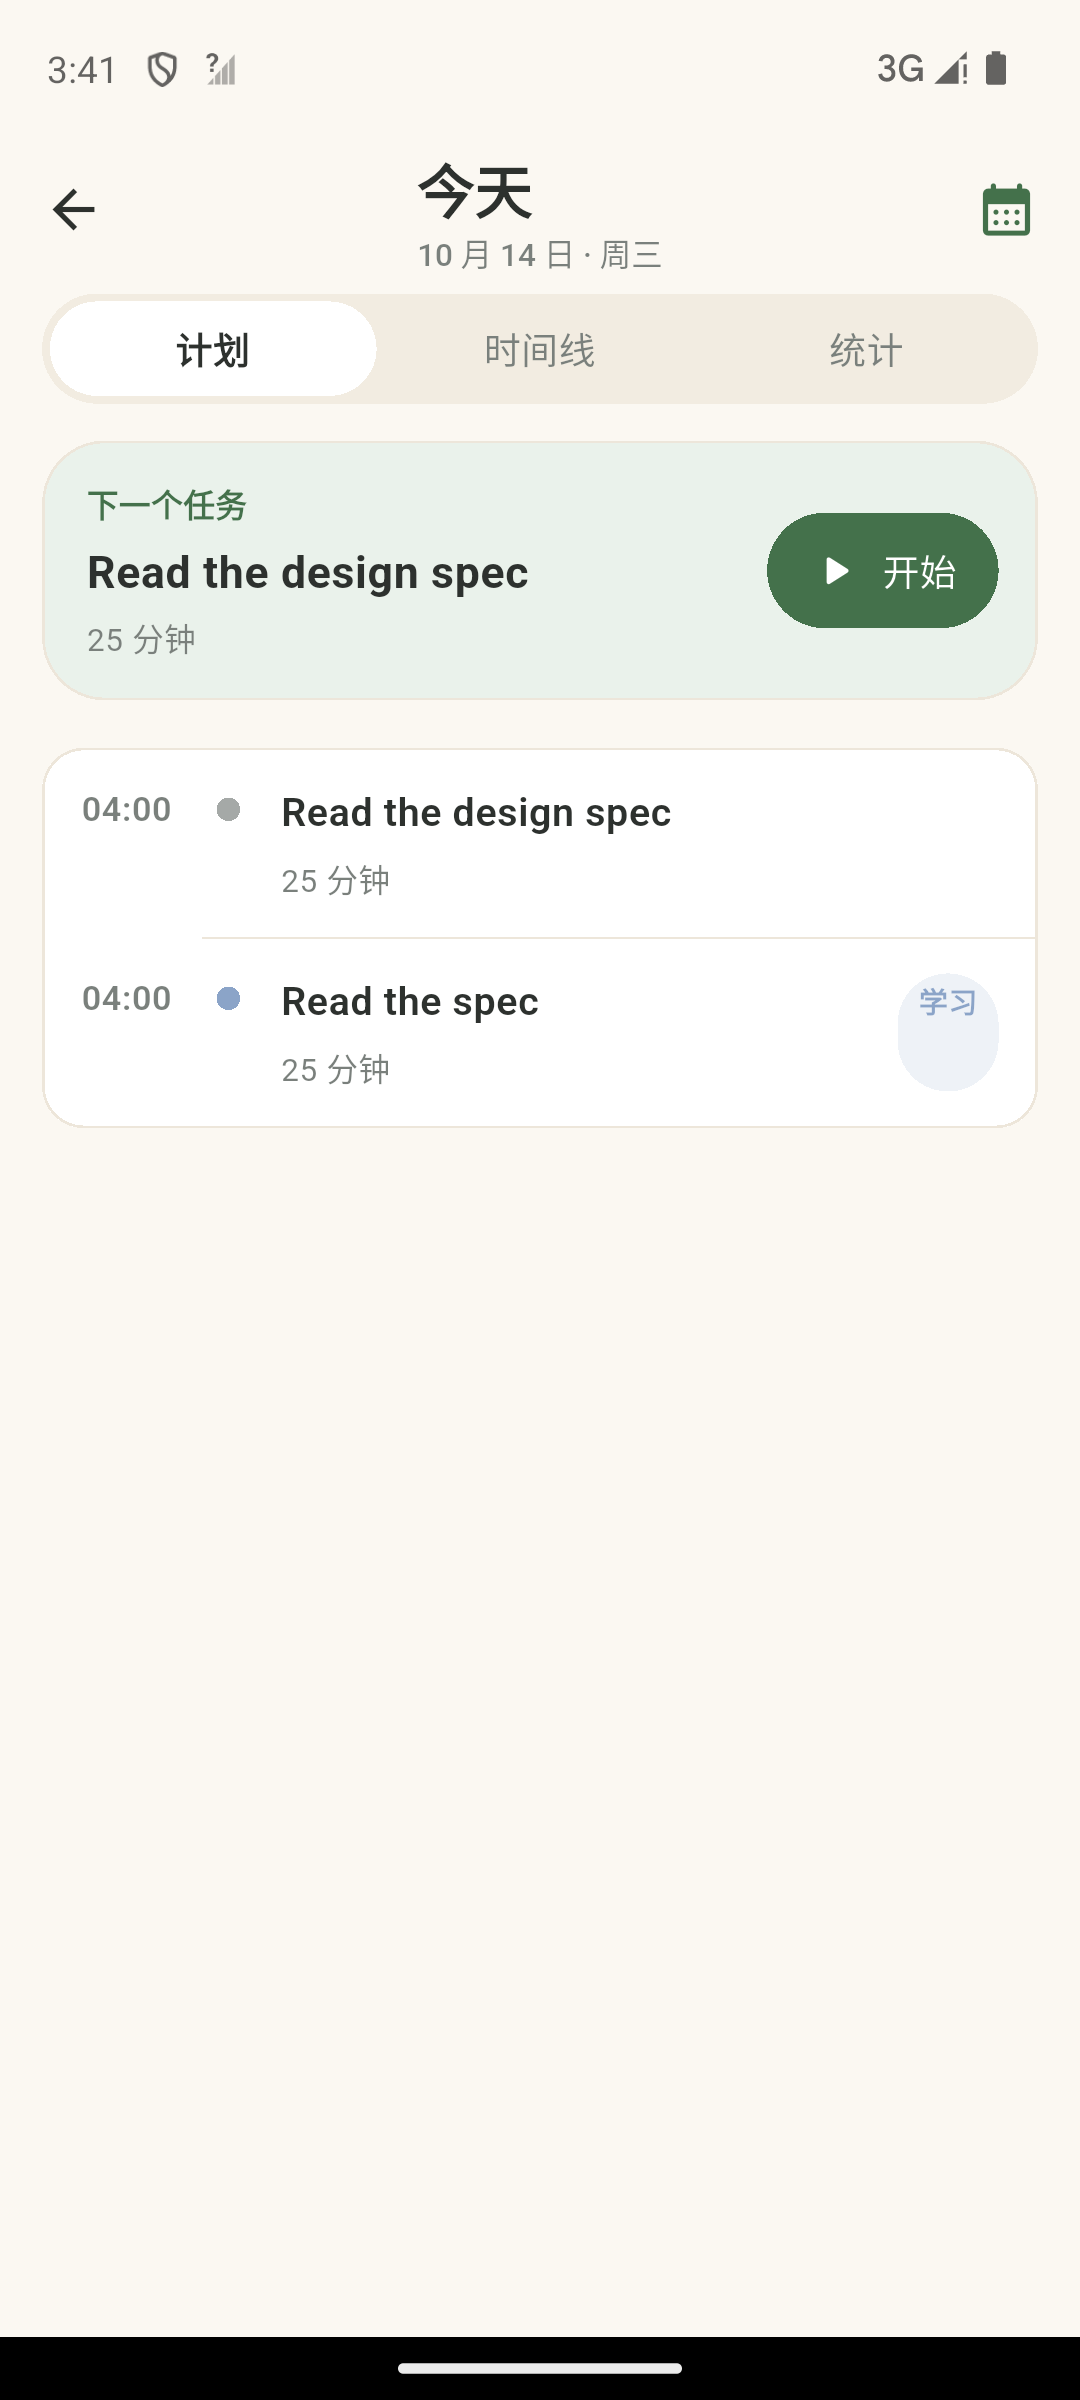
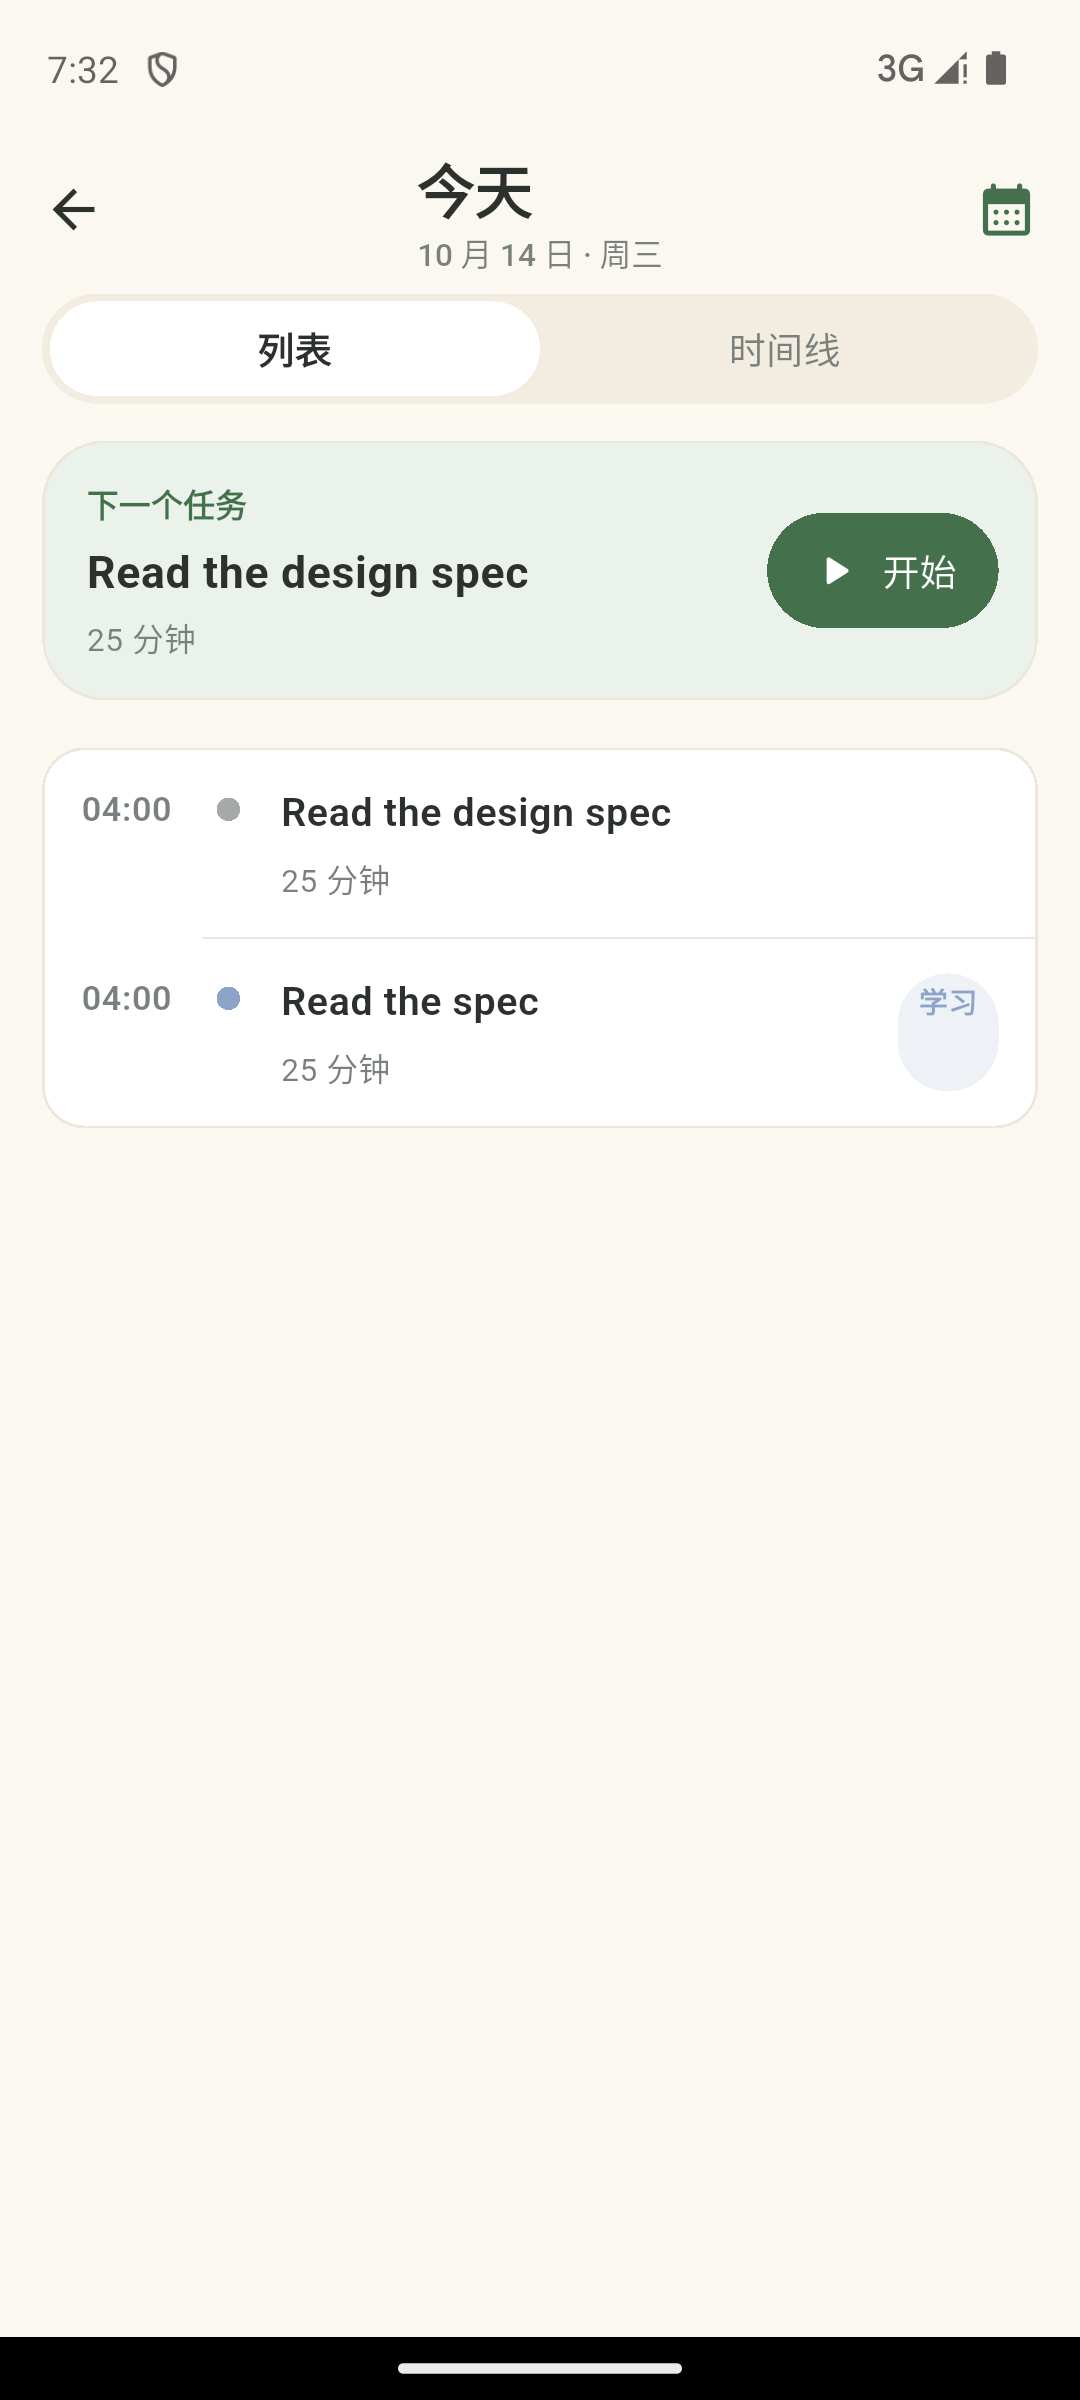
fix(visual): move the statistics to the records page, where board 07 draws them

Changed region(s): [[0.3361, 0.125, 0.55, 0.1875], [0.6722, 0.125, 0.825, 0.1562], [0.1528, 0.125, 0.3056, 0.1562]]

diff --git a/cozy_focus_app/lib/presentation/pages/today_plan_page.dart b/cozy_focus_app/lib/presentation/pages/today_plan_page.dart
@@ -10,7 +10,6 @@ import '../controllers/analytics_controller.dart';
 import '../controllers/timeline_controller.dart';
 import '../controllers/today_plan_controller.dart';
 import '../theme/app_theme.dart';
-import '../widgets/statistics_view.dart';
 import '../widgets/task_category_chip.dart';
 import '../widgets/task_duration.dart';
 
@@ -136,8 +135,6 @@ class _TodayPlanPageState extends ConsumerState<TodayPlanPage> {
                           day: state.day,
                           onStopRunning: _stopRunningSession,
                         )
-                      else if (_view == _DayView.statistics)
-                        StatisticsView(day: state.day)
                       else ...[
                         if (state.next case final PlannedTask next) ...[
                           _NextTaskCard(
@@ -201,7 +198,7 @@ class _TodayPlanPageState extends ConsumerState<TodayPlanPage> {
 
   /// Reloads everything the screen shows.
   ///
-  /// The plan has a controller to reload; the timeline and the statistics are
+  /// The plan has a controller to reload; the timeline is
   /// projections, so they are invalidated and rebuilt from the tables. Pull to
   /// refresh has to mean all three, or a user who pulled because a number looked
   /// wrong would watch the number not change.
@@ -328,15 +325,15 @@ String _dayLabel(DateTime day) {
 String _timeLabel(DateTime at) =>
     '${at.hour.toString().padLeft(2, '0')}:${at.minute.toString().padLeft(2, '0')}';
 
-/// 列表 / 时间线, the two views of one day that board 03 draws, plus 统计.
+/// 列表 / 时间线 - the two views of one day that board 03 draws, and only those.
 ///
-/// This comment used to say "the design's three views of one day", which is not
-/// what board 03 shows: its switch is 列表 / 时间线. 统计 is the app's own addition
-/// - a day's totals and its distribution - and it is on no board. It is recorded
-/// as an extra rather than removed, because dropping a built feature is the
-/// owner's call and not a board detail; the first view's *name* was a plain
-/// mismatch, and that is fixed.
-enum _DayView { plan, timeline, statistics }
+/// 统计 used to be a third tab here, and an earlier note on this enum recorded it
+/// as "the app's own addition, on no board". That was wrong: those sections -
+/// 专注总时长 / 专注次数 / 平均时长, 每日专注时长, 任务专注时长分布 - are **board
+/// 07**, which is the 记录 page. So the view moved there rather than being
+/// dropped, and both boards now match: this page is 列表 / 时间线, and 记录 shows
+/// the statistics where the board puts them.
+enum _DayView { plan, timeline }
 
 class _Segments extends StatelessWidget {
   final _DayView view;
@@ -347,13 +344,11 @@ class _Segments extends StatelessWidget {
   static const Map<_DayView, String> _labels = {
     _DayView.plan: '列表',
     _DayView.timeline: '时间线',
-    _DayView.statistics: '统计',
   };
 
   static const Map<_DayView, String> _keys = {
     _DayView.plan: 'plan_view_list',
     _DayView.timeline: 'plan_view_timeline',
-    _DayView.statistics: 'plan_view_stats',
   };
 
   @override

diff --git a/cozy_focus_app/test/presentation/today_statistics_test.dart b/cozy_focus_app/test/presentation/today_statistics_test.dart
@@ -13,7 +13,7 @@ import 'package:cozy_focus_app/domain/models/task.dart';
 import 'package:cozy_focus_app/domain/services/focus_clock.dart';
 import 'package:cozy_focus_app/presentation/controllers/analytics_controller.dart';
 import 'package:cozy_focus_app/presentation/controllers/providers.dart';
-import 'package:cozy_focus_app/presentation/pages/today_plan_page.dart';
+import 'package:cozy_focus_app/presentation/pages/progress_overview_page.dart';
 import 'package:cozy_focus_app/presentation/theme/app_theme.dart';
 
 /// P7 — the statistics view, against a real database.
@@ -54,11 +54,16 @@ void main() {
 
   Widget app(ProviderContainer c) {
     final router = GoRouter(
-      initialLocation: '/records/today',
+      initialLocation: '/records',
       routes: [
         GoRoute(
-          path: '/records/today',
-          builder: (context, state) => const TodayPlanPage(),
+          path: '/records',
+          // The statistics moved from the today page's 统计 tab to this page's
+          // 报告 tab: board 03's switch has two views (列表 / 时间线), and these
+          // sections are **board 07**, which is the records page. The assertions
+          // below are unchanged - they were always about the figures coming from
+          // the records in the window, and that is still what they check.
+          builder: (context, state) => const ProgressOverviewPage(),
         ),
         GoRoute(
           path: '/records/tasks',
@@ -95,7 +100,8 @@ void main() {
     await tester.pumpWidget(app(c));
     await tester.pump();
     await tester.pump(const Duration(milliseconds: 80));
-    await tester.tap(find.byKey(const ValueKey('plan_view_stats')));
+    // Open the 报告 tab, which is where the statistics now live.
+    await tester.tap(find.text('报告'));
     await settle(tester);
   }
 

diff --git a/cozy_focus_app/lib/presentation/pages/progress_overview_page.dart b/cozy_focus_app/lib/presentation/pages/progress_overview_page.dart
@@ -15,6 +15,7 @@ import '../controllers/records_controller.dart';
 import '../theme/app_theme.dart';
 import '../companion/companion_avatar.dart';
 import '../widgets/app_bottom_nav.dart';
+import '../widgets/statistics_view.dart';
 
 /// Screen 05: Records Hub (V4.1)
 class ProgressOverviewPage extends ConsumerStatefulWidget {
@@ -236,7 +237,7 @@ class _ProgressOverviewPageState extends ConsumerState<ProgressOverviewPage> {
       case 2:
         return _buildCalendarTab(state);
       case 3:
-        return _buildReportsTab();
+        return _buildReportsTab(state);
       default:
         return _buildTodayTab(state);
     }
@@ -739,8 +740,16 @@ class _ProgressOverviewPageState extends ConsumerState<ProgressOverviewPage> {
   }
 
   // ===== Reports tab =====
-  Widget _buildReportsTab() {
+  Widget _buildReportsTab(RecordsState state) {
     return ListView(padding: const EdgeInsets.all(16), children: [
+      // Board 07's own content: a 日 / 周 / 月 range switch over 专注总时长,
+      // 专注次数, 平均时长, 每日专注时长 and 任务专注时长分布.
+      //
+      // These sections used to live on the today page as a third tab (统计). Board
+      // 03's switch has two views, and board 07 - this page - is where the
+      // statistics belong, so the view moved here rather than being deleted.
+      StatisticsView(day: state.selectedCalendarDate),
+      const SizedBox(height: 20),
       _reportEntry(Icons.calendar_view_week_rounded, '周报', '过去 7 天的专注概览',
           () => context.push('/reports/weekly')),
       const SizedBox(height: 12),
